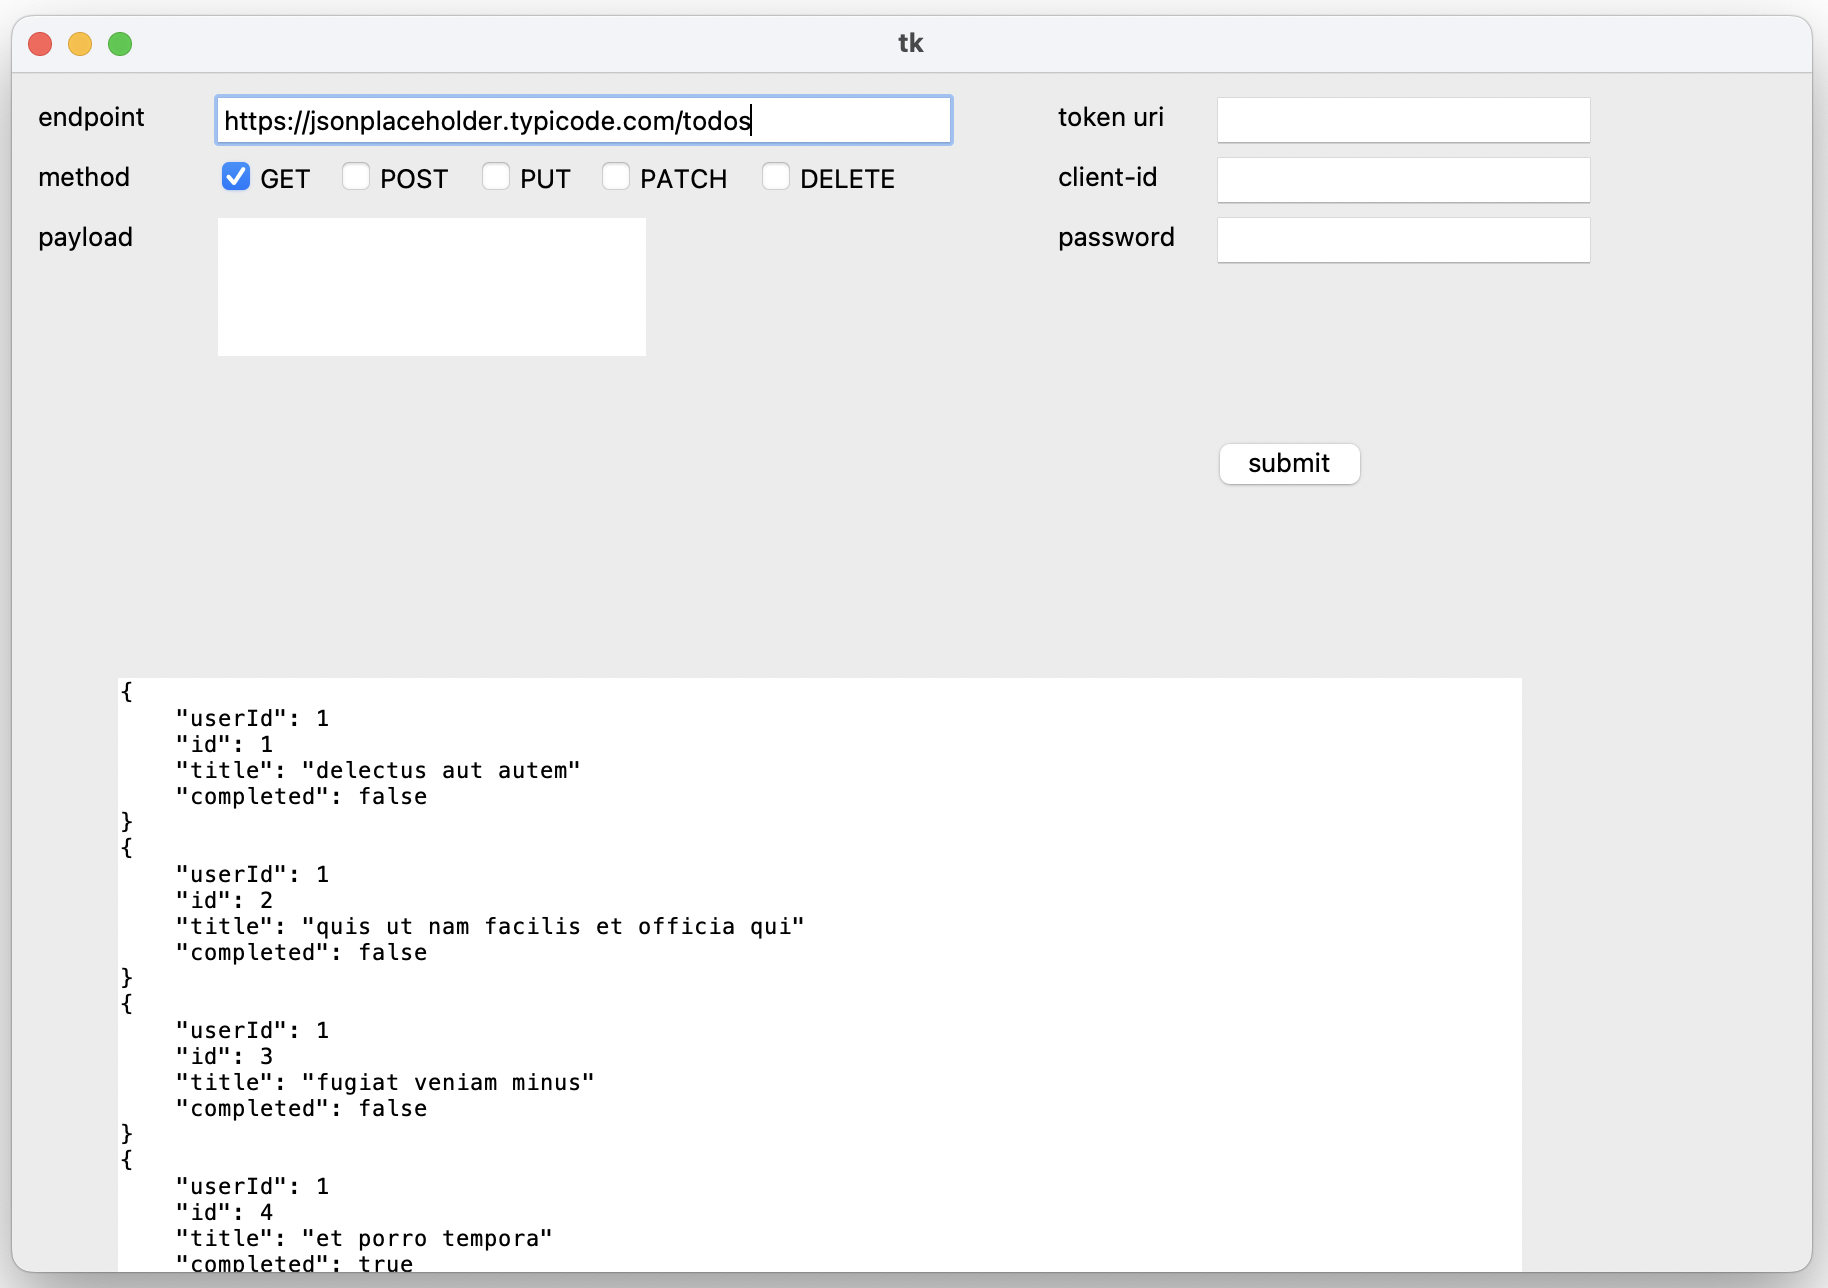
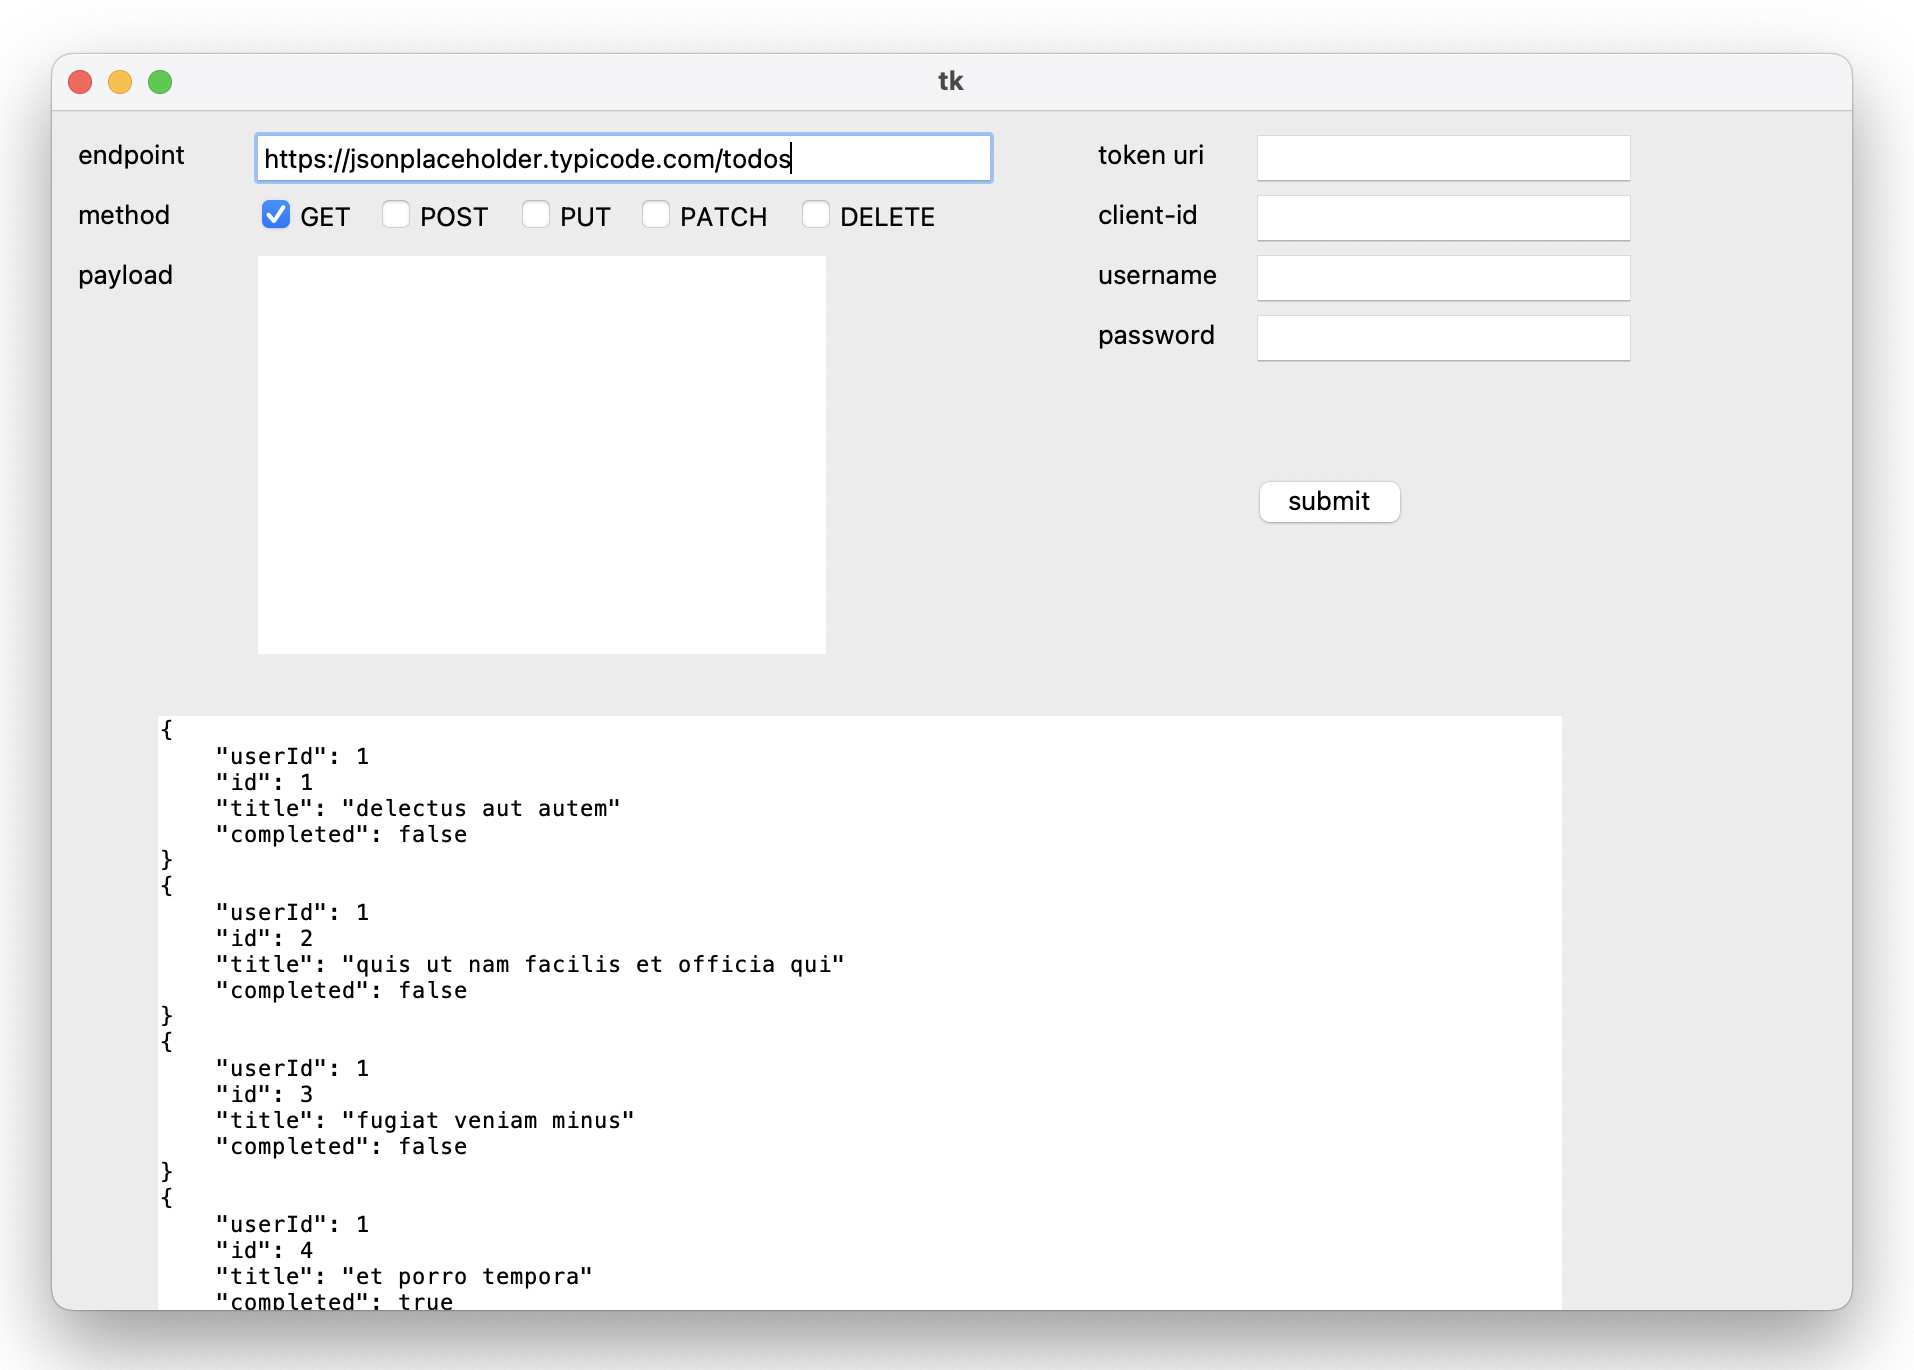
Add username as gui input

diff --git a/Python/api-testing-gui-app/src/view.py b/Python/api-testing-gui-app/src/view.py
@@ -30,7 +30,8 @@ class View:
         tk.Label(self.api_frame, text="payload").place(x=10, y=70)
         tk.Label(self.api_frame, text="token uri").place(x=520, y=10)
         tk.Label(self.api_frame, text="client-id").place(x=520, y=40)
-        tk.Label(self.api_frame, text="password").place(x=520, y=70)
+        tk.Label(self.api_frame, text="username").place(x=520, y=70)
+        tk.Label(self.api_frame, text="password").place(x=520, y=100)
         self._endpoint = tk.Entry(self.api_frame, width=40)
         self.method = tk.StringVar()
         self._method_one = tk.Checkbutton(
@@ -73,9 +74,10 @@ class View:
             offvalue="",
             command=self.method_changed,
         )
-        self._payload = tk.Text(self.api_frame, height=5, width=30, padx=2, pady=2)
+        self._payload = tk.Text(self.api_frame, height=15, width=40, padx=2, pady=2)
         self._token_uri = tk.Entry(self.api_frame)
         self._client_id = tk.Entry(self.api_frame)
+        self._username = tk.Entry(self.api_frame)
         self._password = tk.Entry(self.api_frame, show="*")
         self.submit = tk.Button(
             self.api_frame,
@@ -93,7 +95,8 @@ class View:
         self._payload.place(x=100, y=70)
         self._token_uri.place(x=600, y=10)
         self._client_id.place(x=600, y=40)
-        self._password.place(x=600, y=70)
+        self._username.place(x=600, y=70)
+        self._password.place(x=600, y=100)
         self.submit.place(x=600, y=180)
 
     def method_changed(self):
@@ -114,11 +117,12 @@ class View:
         payload = json.dumps(self._payload.get("1.0", "end-1c"))
         token_uri = self._token_uri.get()
         client_id = self._client_id.get()
+        username = self._username.get()
         password = self._password.get()
         print(f"Endpoint: {endpoint}\nMethod: {method}\nPayload: {payload}")
         try:
             response = self.controller.api_call(
-                endpoint, method, payload, token_uri, client_id, password
+                endpoint, method, payload, token_uri, client_id, username, password
             )
         except Exception:
             raise

diff --git a/Python/api-testing-gui-app/src/model.py b/Python/api-testing-gui-app/src/model.py
@@ -3,11 +3,19 @@ import requests
 
 class Model:
     def api_call(
-        self, endpoint, method, payload, token_uri, client_id, password, token=""
+        self,
+        endpoint,
+        method,
+        payload,
+        token_uri,
+        client_id,
+        username,
+        password,
+        token="",
     ):
         try:
-            if token_uri and client_id and password:
-                token = self.get_token(token_uri, client_id, password)
+            if token_uri and client_id and username and password:
+                token = self.get_token(token_uri, client_id, username, password)
                 if not self.token:
                     return {"Response": "Token not found"}
 
@@ -25,7 +33,7 @@ class Model:
         except Exception:
             raise
 
-    def get_token(self, token_uri, client_id, password):
+    def get_token(self, token_uri, client_id, username, password):
         try:
             token_response = requests.post(
                 token_uri,

diff --git a/Python/api-testing-gui-app/src/controller.py b/Python/api-testing-gui-app/src/controller.py
@@ -5,10 +5,12 @@ class Controller:
     def __init__(self) -> None:
         self.model = Model()
 
-    def api_call(self, endpoint, method, payload, token_uri, client_id, password):
+    def api_call(
+        self, endpoint, method, payload, token_uri, client_id, username, password
+    ):
         try:
             result = self.model.api_call(
-                endpoint, method, payload, token_uri, client_id, password
+                endpoint, method, payload, token_uri, client_id, username, password
             )
         except Exception:
             raise
